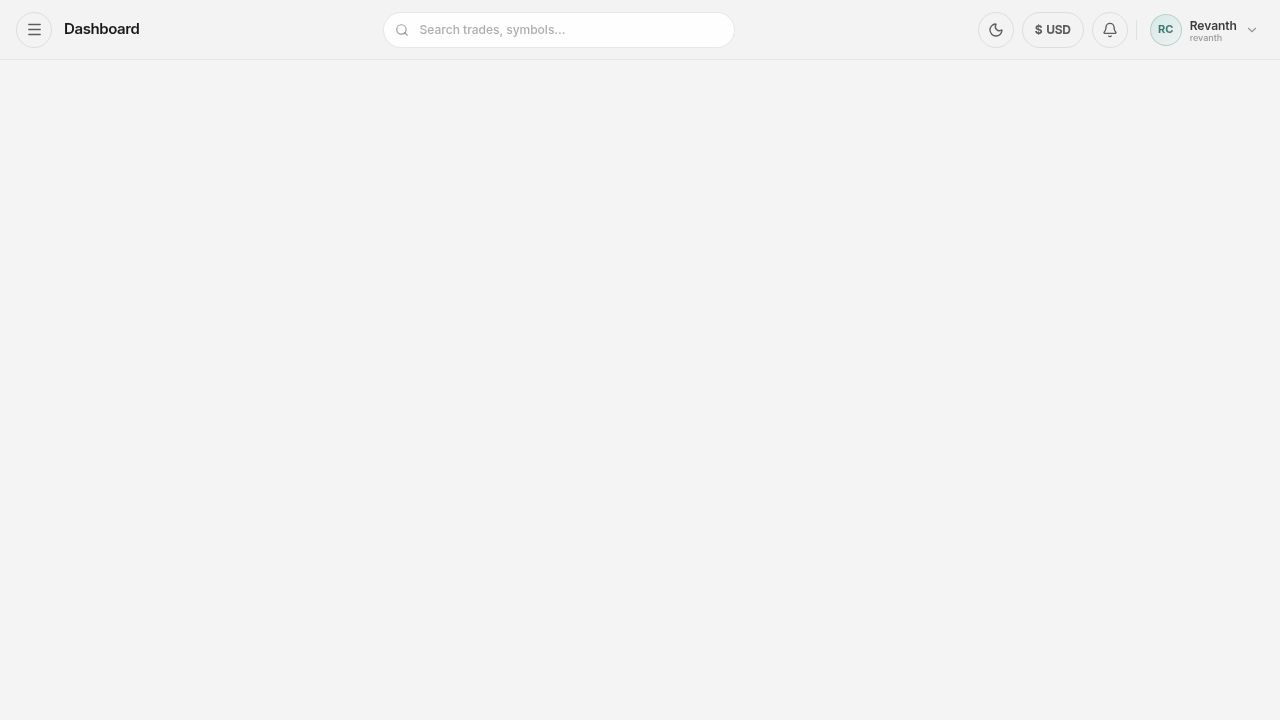
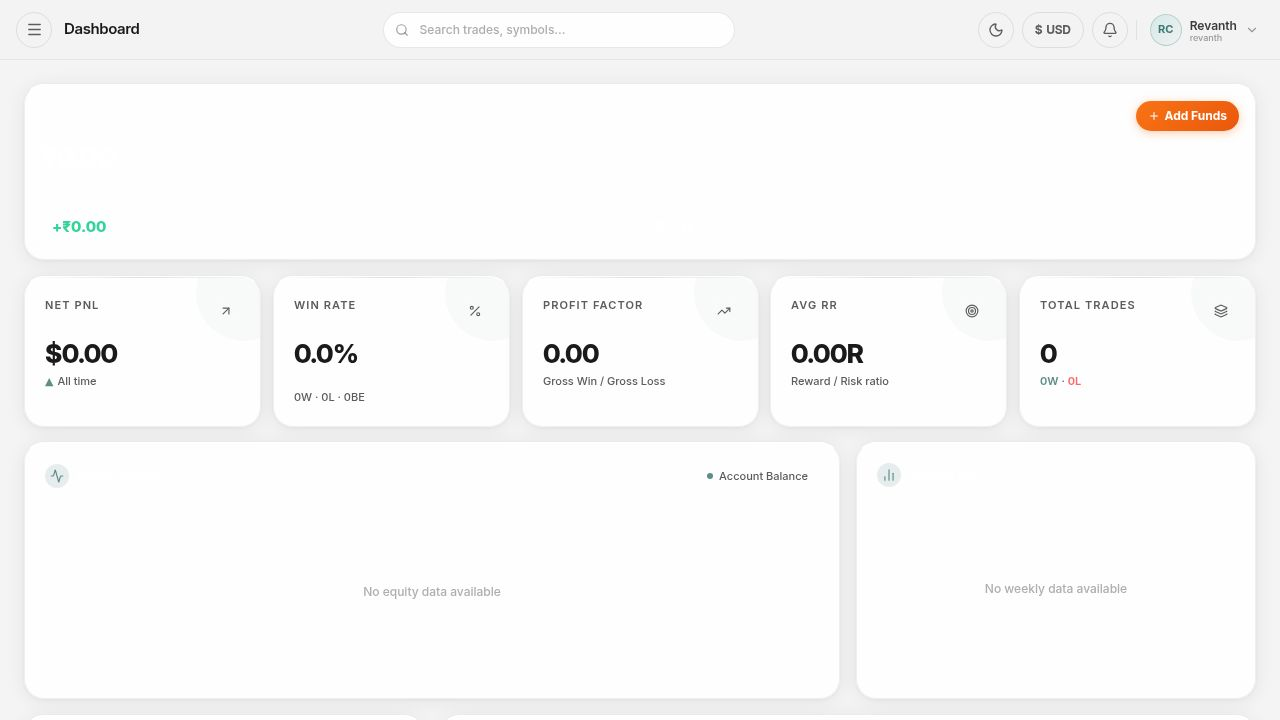
Ensure chart data is always sorted and free of duplicates
Add helper functions to sort and deduplicate bar data before rendering and validate individual bar timestamps to prevent chart crashes.

Replit-Commit-Author: Agent
Replit-Commit-Session-Id: d8ce27da-2af0-411a-8442-d03961d64905
Replit-Commit-Checkpoint-Type: full_checkpoint
Replit-Commit-Event-Id: f0d1cd96-af09-4b2d-8397-704f56e3238d
Replit-Commit-Screenshot-Url: https://storage.googleapis.com/screenshot-production-us-central1/97b5bcf0-99be-43f4-8ef5-c6833088b7da/d8ce27da-2af0-411a-8442-d03961d64905/ibjzk6r
Replit-Helium-Checkpoint-Created: true

diff --git a/artifacts/trading-journal/src/components/charts/CustomChart.tsx b/artifacts/trading-journal/src/components/charts/CustomChart.tsx
@@ -92,6 +92,45 @@ function calcVWAP(bars: OHLCBar[]): (number | null)[] {
   return out;
 }
 
+// ── Bar safety helpers ─────────────────────────────────────────────────────────
+/**
+ * Defensively sort + dedup a bar array before passing to Lightweight Charts.
+ * LWC asserts strictly ascending time order and throws if violated.
+ * Dedup keeps the LATEST bar for any duplicate timestamp.
+ * Returns a new array; never mutates the input.
+ */
+function safeSortDedup(bars: OHLCBar[]): OHLCBar[] {
+  if (bars.length < 2) return bars;
+  // Dedup: Map keeps last write per key → latest bar wins
+  const deduped = [...new Map(bars.map(b => [b.time, b])).values()];
+  deduped.sort((a, b) => a.time - b.time);
+  const dupCount = bars.length - deduped.length;
+  let outOfOrder = false;
+  for (let i = 1; i < deduped.length; i++) {
+    if (deduped[i].time <= deduped[i - 1].time) { outOfOrder = true; break; }
+  }
+  if (dupCount > 0 || outOfOrder) {
+    console.warn(`[Chart] safeSortDedup: fixed ${dupCount} duplicate(s)${outOfOrder ? " + ordering issue" : ""} in ${bars.length} bars`);
+  }
+  return deduped;
+}
+
+/**
+ * Validate a single bar's timestamp for series.update().
+ * Returns false (and warns) if the timestamp is invalid.
+ */
+function isValidBarTime(barTime: number, lastBarTime: number, context: string): boolean {
+  if (!Number.isFinite(barTime) || barTime <= 0) {
+    console.warn(`[Chart] ${context}: invalid bar.time=${barTime} — skipped`);
+    return false;
+  }
+  if (barTime < lastBarTime) {
+    console.warn(`[Chart] ${context}: out-of-order bar skipped (bar=${barTime}, last=${lastBarTime})`);
+    return false;
+  }
+  return true;
+}
+
 // ── Series helpers ─────────────────────────────────────────────────────────────
 function makeSeries(chart: IChartApi, ct: ChartType): ISeriesApi<SeriesType> {
   // lastValueVisible: false — we render our own combined live-price+countdown box
@@ -126,21 +165,25 @@ function toHeikinAshi(bars: OHLCBar[]): OHLCBar[] {
 
 function applyBars(series: ISeriesApi<SeriesType>, ct: ChartType, bars: OHLCBar[]) {
   if (bars.length === 0) return;
+  // Always sort + dedup before setData() — LWC asserts ascending order
+  const safe = safeSortDedup(bars);
   if (ct === "candles") {
-    (series as ISeriesApi<"Candlestick">).setData(bars.map(b => ({ time: b.time as Time, open: b.open, high: b.high, low: b.low, close: b.close })));
+    (series as ISeriesApi<"Candlestick">).setData(safe.map(b => ({ time: b.time as Time, open: b.open, high: b.high, low: b.low, close: b.close })));
   } else if (ct === "heikin_ashi") {
-    const ha = toHeikinAshi(bars);
+    const ha = toHeikinAshi(safe);
     (series as ISeriesApi<"Candlestick">).setData(ha.map(b => ({ time: b.time as Time, open: b.open, high: b.high, low: b.low, close: b.close })));
   } else if (ct === "bars") {
-    (series as ISeriesApi<"Bar">).setData(bars.map(b => ({ time: b.time as Time, open: b.open, high: b.high, low: b.low, close: b.close })));
+    (series as ISeriesApi<"Bar">).setData(safe.map(b => ({ time: b.time as Time, open: b.open, high: b.high, low: b.low, close: b.close })));
   } else if (ct === "line" || ct === "line_with_markers") {
-    (series as ISeriesApi<"Line">).setData(bars.map(b => ({ time: b.time as Time, value: b.close })));
+    (series as ISeriesApi<"Line">).setData(safe.map(b => ({ time: b.time as Time, value: b.close })));
   } else {
-    (series as ISeriesApi<"Line">).setData(bars.map(b => ({ time: b.time as Time, value: b.close })));
+    (series as ISeriesApi<"Line">).setData(safe.map(b => ({ time: b.time as Time, value: b.close })));
   }
 }
 
-function updateBar(series: ISeriesApi<SeriesType>, ct: ChartType, b: OHLCBar) {
+function updateBar(series: ISeriesApi<SeriesType>, ct: ChartType, b: OHLCBar, lastBarTime = 0) {
+  // Validate timestamp before passing to LWC — out-of-order bars crash with assertion
+  if (!isValidBarTime(b.time, lastBarTime, "updateBar")) return;
   try {
     if (ct === "candles") {
       (series as ISeriesApi<"Candlestick">).update({ time: b.time as Time, open: b.open, high: b.high, low: b.low, close: b.close });
@@ -959,7 +1002,9 @@ const CustomChart = memo(function CustomChart({
       if (!b || !s) return;
       lastRenderMsRef.current = performance.now();
       pendingChartBarRef.current = null;
-      updateBar(s, ctRef.current, b);
+      // Pass last known bar time so updateBar can reject out-of-order updates
+      const lastTime = barsRef.current[barsRef.current.length - 1]?.time ?? 0;
+      updateBar(s, ctRef.current, b, lastTime);
     });
   }, []); // all deps are refs — stable forever
 
@@ -2906,10 +2951,26 @@ const CustomChart = memo(function CustomChart({
     sym:  string,
     iv:   string,
   ) => {
-    barsRef.current = bars;
+    // Ensure bars are sorted + deduped before storing — guards cache-hit path
+    // which returns bars directly without re-sorting.
+    const safeBars = safeSortDedup(bars);
+    if (safeBars.length !== bars.length) {
+      console.warn(`[Chart] applyBarArray(${sym}/${iv}): removed ${bars.length - safeBars.length} duplicate(s), ${safeBars.length} bars remaining`);
+    }
+
+    // Cancel any pending tick bar from the PREVIOUS symbol before we tear down
+    // the series. Without this, a queued RAF from the old symbol fires on the
+    // new series with an out-of-order timestamp → LWC assertion crash.
+    pendingChartBarRef.current = null;
+    if (chartUpdateRafRef.current !== null) {
+      cancelAnimationFrame(chartUpdateRafRef.current);
+      chartUpdateRafRef.current = null;
+    }
+
+    barsRef.current = safeBars;
 
     // Reset infinite-history state for this new symbol/interval
-    oldestBarTimeRef.current  = bars[0]?.time ?? null;
+    oldestBarTimeRef.current  = safeBars[0]?.time ?? null;
     hasMoreHistoryRef.current = true;
     isLoadingMoreRef.current  = false;
 
@@ -2930,13 +2991,13 @@ const CustomChart = memo(function CustomChart({
       });
     } catch { }
 
-    applyBars(cs, ctRef.current, bars);
+    applyBars(cs, ctRef.current, safeBars);
 
-    const lastClose = bars[bars.length - 1]?.close ?? 1;
+    const lastClose = safeBars[safeBars.length - 1]?.close ?? 1;
     const fmt       = pricePrecision(lastClose);
     try { cs.applyOptions({ priceFormat: { type: 'price', precision: fmt.precision, minMove: fmt.minMove } }); } catch { }
 
-    const last = bars[bars.length - 1];
+    const last = safeBars[safeBars.length - 1];
     if (last) {
       livePxRef.current = last.close;
       tickDataRef.current = { price: last.close, open: last.open };
@@ -2947,12 +3008,12 @@ const CustomChart = memo(function CustomChart({
     }
 
     for (const [key, s] of Object.entries(emaRefs.current) as [keyof IndicatorState, ISeriesApi<"Line">][]) {
-      fillIndicator(s, key, bars);
+      fillIndicator(s, key, safeBars);
     }
 
     activatePanRange(null);
 
-    const lastBarIdx = bars.length - 1;
+    const lastBarIdx = safeBars.length - 1;
     const vpKey      = `tv_vp_${sym}_${iv}`;
     const defaultRange = {
       from: Math.max(0, lastBarIdx - DEFAULT_VISIBLE_BARS + 1),
@@ -3213,14 +3274,24 @@ const CustomChart = memo(function CustomChart({
       if (!cs) return;
 
       const stored   = barsRef.current;
+      const lastTime = stored.length > 0 ? stored[stored.length - 1].time : 0;
       const isNewBar = bar.time !== emaLastBarTimeRef.current;
 
-      // Update the bars ring buffer (in-place mutation — no allocation)
-      if (stored.length > 0 && stored[stored.length - 1].time === bar.time) {
-        stored[stored.length - 1] = bar;
+      // Guard: reject bars with invalid or out-of-order timestamps before touching barsRef
+      if (!Number.isFinite(bar.time) || bar.time <= 0) {
+        console.warn(`[Chart] candle_update: invalid bar.time=${bar.time} — discarded`);
+      } else if (bar.time < lastTime) {
+        // Out-of-order bar from server (can happen when multiple symbols share a WS connection)
+        console.warn(`[Chart] candle_update: out-of-order bar skipped in barsRef (bar=${bar.time}, last=${lastTime})`);
+        // Still queue a series.update() — LWC may handle it or the try/catch in updateBar will absorb it
       } else {
-        stored.push(bar);
-        if (stored.length > 6000) stored.shift();
+        // Update the bars ring buffer (in-place mutation — no allocation)
+        if (stored.length > 0 && stored[stored.length - 1].time === bar.time) {
+          stored[stored.length - 1] = bar;
+        } else {
+          stored.push(bar);
+          if (stored.length > 6000) stored.shift();
+        }
       }
 
       // ── Candle / line series update — buffered via scheduleChartUpdate ──────